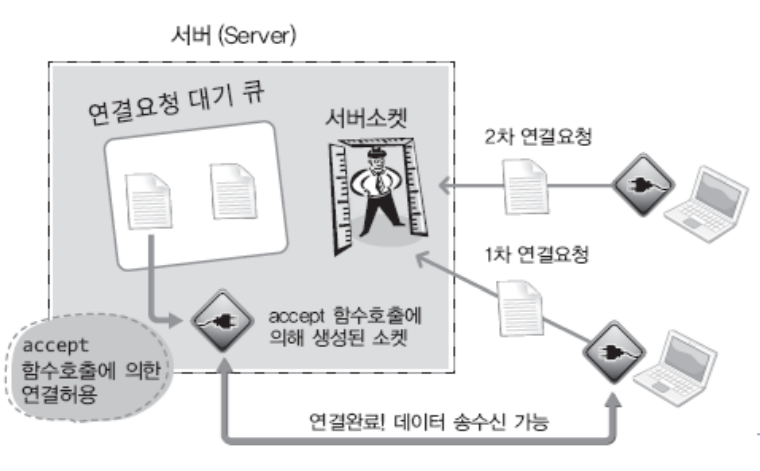
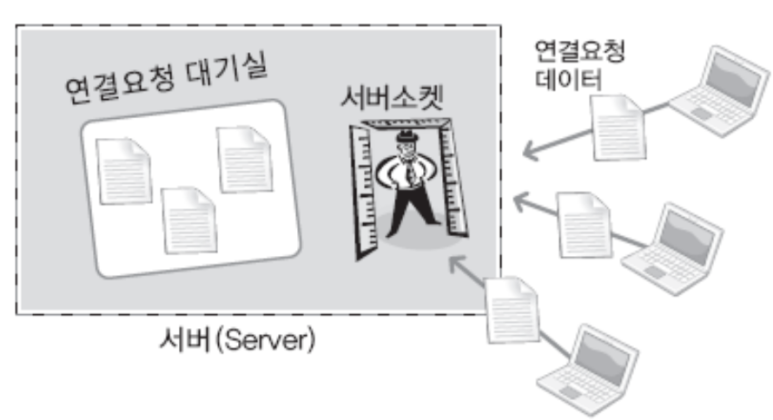
vault backup: 2024-10-08 15:57:10

diff --git a/resource/Network/소켓 프로그래밍(리눅스)/accept.md b/resource/Network/소켓 프로그래밍(리눅스)/accept.md
@@ -10,7 +10,9 @@
 [[listen]]의 호출 이후에 클라이언트의 연결 요청이 들어왔다면, 들어온 순서대로 연결 요청을 수락해야 한다.
 listen을 통해 생성된 **서버 소켓**은 오로지 연결 요청만을 전담하여 수신하는 소켓이므로, 클라이언트와 데이터를 주고 받기 위해서는 별도의 연결 소켓이 필요하다. 이를 위해 **accept**를 사용한다.
 
-accept을 사용하면 **연결 요청 대기 큐**에서 대기 요청 하나를 꺼내, 해당 클라이언트와의 통신을 위한 소켓을 생성 후 연결한 후에 해당 소켓의 파일 디스크립터를 반환한다.
+![[accept의 기능.png]]
+
+accept을 사용하면 **연결 요청 대기 큐**에서 연결 요청 하나를 꺼내, 해당 클라이언트와의 통신을 위한 소켓을 생성 후 연결한 후에 해당 소켓의 파일 디스크립터를 반환한다.
 
 ```c
 #include <sys/socket.h>
